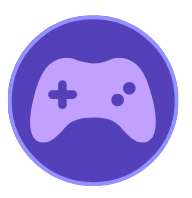
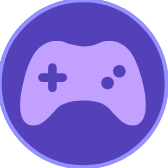
estilizando botão

diff --git a/index.html b/index.html
@@ -9,7 +9,7 @@
 
 <body>
 
-    <header id="blurHeader">
+    <header id="Header">
         <nav class="dropdownMenu" >
             <ul id="menuUl">
                 <li>
@@ -148,7 +148,7 @@
             <button id="btnGameQuiz"><img src="src/img/console.png" alt="Game Quiz" class="console"></button>
             <ul id="menuQuiz" class="">
                 <article class="container">
-                    <li><a href="html/gameQuiz.html"><img src="src/img/btnJogar.png" alt=""></a></li>
+                    <li><a href="src/html/gameQuiz.html"><img src="src/img/btnJogar.png" alt=""></a></li>
                     <li> <a href="#" target=""><img src="src/img/btnPlacar.png" alt=""></a></li>
                 </article>
             </ul>

diff --git a/src/html/gameQuiz.html b/src/html/gameQuiz.html
@@ -3,8 +3,8 @@
 <head>
     <meta charset="UTF-8">
     <meta name="viewport" content="width=device-width, initial-scale=1.0">
-    <link rel="stylesheet" href="../src/css/quiz.css" media="all">
-    <link rel="stylesheet" href="../src/css/quizMQ.css">
+    <link rel="stylesheet" href="../css/quiz.css" media="all">
+    <link rel="stylesheet" href="../css/quizmq.css">
     <title>Host Mentor</title>
 </head>
 <body>

diff --git a/src/css/style.css b/src/css/style.css
@@ -27,7 +27,16 @@ body {
 }
 
 .console {
+    box-sizing: border-box;
     box-shadow:  6px 6px 16px rgb(13, 13, 13, 0.616);
+    border-radius: 50px;
+}
+
+.console:hover {
+    border: 2px solid rgba(255, 255, 255, 0.700);
+    transform: translate(-3px, -3px);
+    box-shadow: 5px 5px 10px rgba(0, 0, 0, 0.622);
+    transition: transform 0.3s border 0.5s; 
 }
 
 .sigla{
